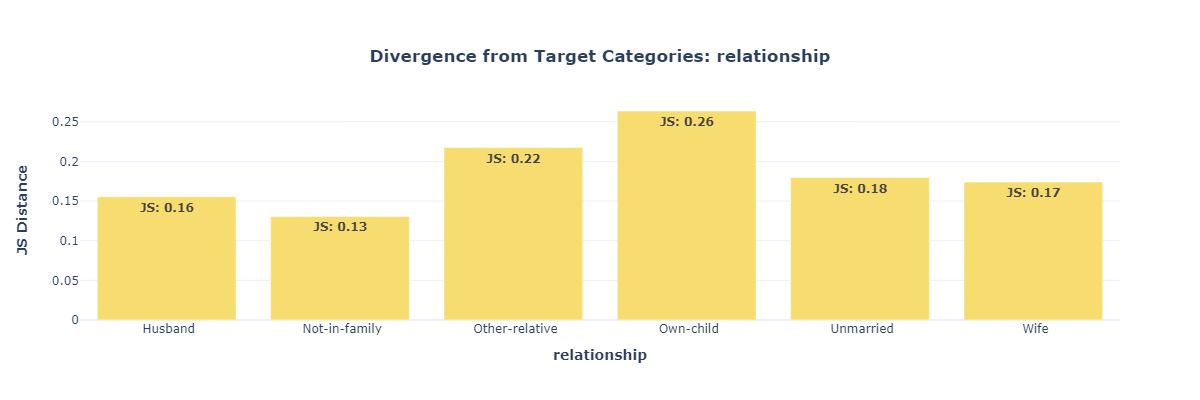
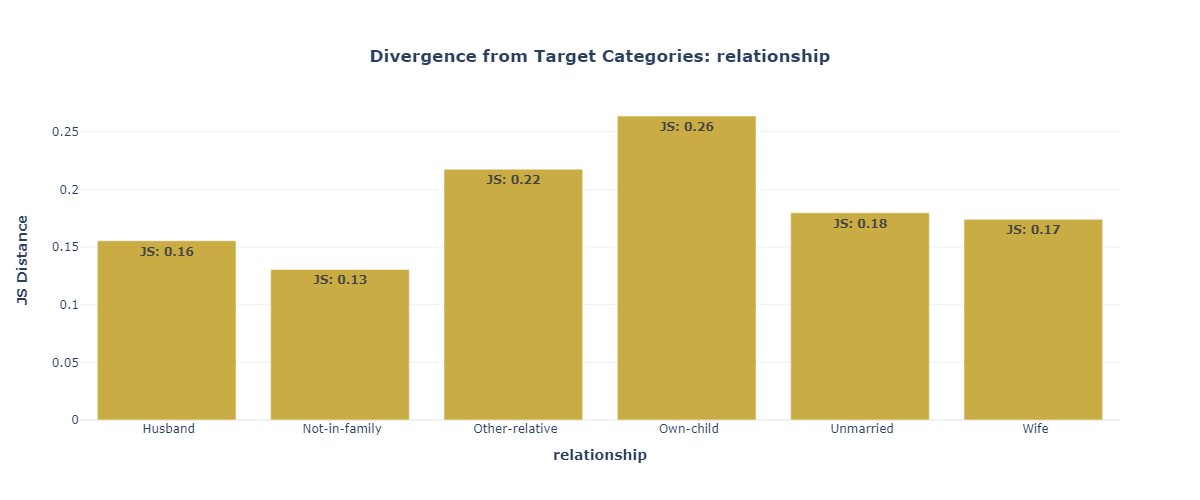
adding total and percent columns to univariate_category_importance function

diff --git a/scorescanner/utils/plotting.py b/scorescanner/utils/plotting.py
@@ -209,7 +209,13 @@ def generate_bar_plot(
 
 
 def plot_woe(
-    df: pd.DataFrame, feature: str, target_var: str, cat_ref=None, colors=["#9B59B6"]
+    df: pd.DataFrame,
+    feature: str,
+    target_var: str,
+    cat_ref=None,
+    colors=["#9B59B6"],
+    width=1200,  
+    height=500
 ):
     """
     Generates a Plotly figure to visualize the Weight of Evidence (WoE) for a specified categorical feature
@@ -221,6 +227,8 @@ def plot_woe(
     target_var (str): The name of the binary target variable.
     cat_ref (str, optional): The reference category for WoE calculation. If None, a category is chosen randomly.
     colors (list, optional): List of colors for the plot.
+    width (int, optional): Width of the figure.
+    height (int, optional): Height of the figure. 
 
     Returns:
     plotly.graph_objs._figure.Figure: A Plotly figure with a bar plot representing the WoE for each category in 'feature'.
@@ -264,6 +272,8 @@ def plot_woe(
             "xanchor": "center",
             "yanchor": "top",
         },
+        width=width,  
+        height=height,
         xaxis_title=f"<b>{feature}",
         yaxis_title="<b>WoE",
         template="plotly_white",
@@ -287,7 +297,14 @@ def plot_woe(
     return fig
 
 
-def plot_js(df: pd.DataFrame, feature: str, target_var: str, colors=["#F7DC6F"]):
+def plot_js(
+    df: pd.DataFrame,
+    feature: str,
+    target_var: str,
+    colors=["#C9AD44"],
+    width=1200,  
+    height=500
+    ):
     """
     Generates a Plotly figure to visualize the Jensen-Shannon Distance for each category
     of a specified categorical feature in relation to a binary target variable.
@@ -297,12 +314,17 @@ def plot_js(df: pd.DataFrame, feature: str, target_var: str, colors=["#F7DC6F"])
     variable (str): The name of the categorical variable.
     target_var (str): The name of the binary target variable.
     colors (list, optional): List of colors for the plot.
+    width (int, optional): Width of the figure.
+    height (int, optional): Height of the figure.
 
     Returns:
     plotly.graph_objs._figure.Figure: A Plotly figure with a bar plot representing the Jensen-Shannon Distance for each category in 'feature'.
     """
     # Calculate JS distances using calculate_js_distances function or similar
     js_df = calculate_js_distances(df, feature, target_var)
+    # Adding total and percentage 
+    js_df['Total'] = js_df['Category'].apply(lambda x: df[feature].value_counts().get(x, 0))
+    js_df['Percent'] = js_df['Category'].apply(lambda x: df[feature].value_counts(normalize=True).get(x, 0) * 100)
     # Separating 'Special' and 'Missing' categories
     special_missing_rows = js_df[js_df["Category"].isin(["Special", "Missing"])]
     final_stats = js_df[~js_df["Category"].isin(["Special", "Missing"])].sort_values(
@@ -322,11 +344,12 @@ def plot_js(df: pd.DataFrame, feature: str, target_var: str, colors=["#F7DC6F"])
             y=js_df["Jensen-Shannon Distance"],
             marker=dict(color=colors[0]),
             hoverinfo="text",  # Use text for hover information
-            text=js_df.apply(
-                lambda row: f"<b>JS: {row['Jensen-Shannon Distance']:.2f}", axis=1
-            ),
             hovertext=js_df.apply(
-                lambda row: f"<b>Category: {row['Category']}<br>JS: {row['Jensen-Shannon Distance']:.2f}",
+                lambda row: f"<b>JS: {row['Jensen-Shannon Distance']:.2f}<br>Total: {row['Total']}<br>Percent: {row['Percent']:.2f}%",
+                                 axis=1
+            ),
+            text=js_df.apply(
+                lambda row: f"<b>JS: {row['Jensen-Shannon Distance']:.2f}",
                 axis=1,
             ),
         )
@@ -340,6 +363,8 @@ def plot_js(df: pd.DataFrame, feature: str, target_var: str, colors=["#F7DC6F"])
             "xanchor": "center",
             "yanchor": "top",
         },
+        width=width,  
+        height=height,
         xaxis_title=f"<b>{feature}",
         yaxis_title="<b>JS Distance",
         template="plotly_white",
